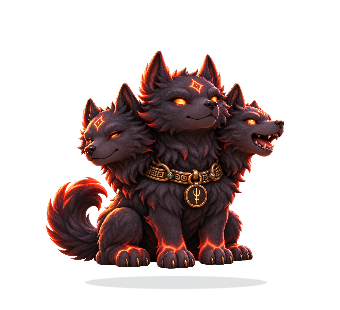
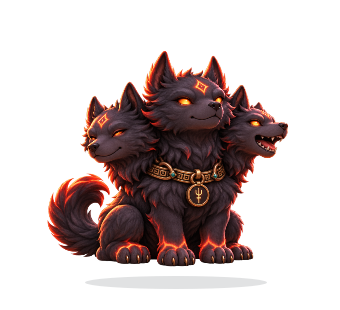
cerberus-state-specific-raster-poses

Changed region(s): [[0.1176, 0.1452, 0.8529, 0.871]]

diff --git a/cerberus/pet.py b/cerberus/pet.py
@@ -25,6 +25,7 @@ from .animation_pack import (
 BASE_WIDTH = 340
 BASE_HEIGHT = 310
 MAX_PACK_PIXELS = 32_000_000
+MAX_RENDER_DIMENSION = 768
 
 
 def mime_image_png(mime) -> bytes | None:
@@ -74,6 +75,12 @@ def _load_png(data: bytes, name: str) -> QPixmap:
         raise ValueError(f"Animation frame dimensions exceed {MAX_DIMENSION}px: {name}")
     if not pixmap.toImage().hasAlphaChannel():
         raise ValueError(f"Animation frame must support transparency: {name}")
+    if pixmap.width() > MAX_RENDER_DIMENSION or pixmap.height() > MAX_RENDER_DIMENSION:
+        pixmap = pixmap.scaled(
+            MAX_RENDER_DIMENSION, MAX_RENDER_DIMENSION,
+            Qt.AspectRatioMode.KeepAspectRatio,
+            Qt.TransformationMode.SmoothTransformation,
+        )
     return pixmap
 
 
@@ -389,9 +396,13 @@ class CerberusPet(QWidget):
                 tilt = 1.15 * math.sin(now * .85)
                 sy = 1.0 + .010 * math.sin(now * 2.2)
             elif state == "sleep":
-                sy = .83 + .004 * math.sin(now * .8)
-                sx = 1.065
-                dy = 9
+                if state in self._state_frames:
+                    sy = 1.0 + .006 * math.sin(now * .8)
+                    dy = 9
+                else:
+                    sy = .83 + .004 * math.sin(now * .8)
+                    sx = 1.065
+                    dy = 9
             elif state == "portal":
                 sx = sy = .40 + .60 * min(1, progress * 1.25)
                 dy = -12 * math.sin(progress * math.pi)
@@ -410,6 +421,9 @@ class CerberusPet(QWidget):
             elif state == "play":
                 dy = -13 * abs(math.sin(progress * math.pi * 2))
                 tilt = 8 * math.sin(progress * math.pi * 3)
+            elif state == "carry":
+                dy = -4 * abs(math.sin(progress * math.pi * 2))
+                tilt = 2 * math.sin(progress * math.pi * 2)
             elif state == "wake":
                 sy = .85 + .15 * progress
                 dy = 9 * (1 - progress)
@@ -419,7 +433,7 @@ class CerberusPet(QWidget):
                 sy = 1.01
         else:
             if state == "sleep":
-                sy = .9
+                sy = 1.0 if state in self._state_frames else .9
                 dy = 5
 
         painter.save()

diff --git a/scripts/render_preview.py b/scripts/render_preview.py
@@ -47,7 +47,7 @@ def snapshot(phase: str, fraction: float = 0.0) -> Image.Image:
     return image
 
 
-states = ["idle", "portal", "dash", "catch", "celebrate", "sleep"]
+states = ["idle", "portal", "dash", "catch", "carry", "celebrate", "play", "sleep", "wake", "guard", "alert"]
 tiles = []
 for phase in states:
     frame = snapshot(phase, 0.45 if phase in DURATIONS else 0)
@@ -55,15 +55,18 @@ for phase in states:
     tiles.append(frame)
 
 width, height = tiles[0].size
-sheet = Image.new("RGBA", (width * 3, height * 2), (0, 0, 0, 0))
+columns = 3
+rows = (len(tiles) + columns - 1) // columns
+sheet = Image.new("RGBA", (width * columns, height * rows), (0, 0, 0, 0))
 for i, tile in enumerate(tiles):
-    sheet.alpha_composite(tile, ((i % 3) * width, (i // 3) * height))
+    sheet.alpha_composite(tile, ((i % columns) * width, (i // columns) * height))
 sheet.save(OUT / "cerberus-state-sheet.png")
 
-# A short loop of authentic GUI frames: wake -> portal -> dash -> catch -> celebrate -> rest.
+# A short loop of authentic GUI frames: wake -> portal -> dash -> catch -> carry -> celebrate -> rest.
 frames = []
 for phase, count in [("wake", 5), ("portal", 6), ("dash", 8),
-                     ("catch", 7), ("celebrate", 8), ("idle", 10), ("sleep", 10)]:
+                     ("catch", 7), ("carry", 5), ("celebrate", 8),
+                     ("idle", 10), ("sleep", 10)]:
     for i in range(count):
         progress = i / max(1, count - 1)
         frames.append(snapshot(phase, progress))

diff --git a/cerberus/motion.py b/cerberus/motion.py
@@ -8,7 +8,8 @@ import time
 DURATIONS = {
     "portal": (0.55, "dash"),
     "dash": (0.55, "catch"),
-    "catch": (0.65, "celebrate"),
+    "catch": (0.50, "carry"),
+    "carry": (0.55, "celebrate"),
     "celebrate": (0.8, "idle"),
     "play": (1.15, "idle"),
     "wake": (0.7, "idle"),
@@ -18,7 +19,7 @@ DURATIONS = {
 
 @dataclass
 class MotionMachine:
-    """Timeline-based behavior: idle -> sleep, or portal -> dash -> catch -> celebrate."""
+    """Timeline-based behavior: idle -> sleep, or portal -> dash -> catch -> carry -> celebrate."""
 
     standby_after: float = 95.0
     phase: str = "idle"
@@ -40,7 +41,7 @@ class MotionMachine:
             self.last_active_at = stamp
 
     def capture(self, *, now: float | None = None) -> None:
-        self.transition("catch" if self.reduced_motion else "portal", now=now)
+        self.transition("carry" if self.reduced_motion else "portal", now=now)
 
     def touch(self, *, now: float | None = None) -> None:
         stamp = time.monotonic() if now is None else now

diff --git a/tests/test_motion.py b/tests/test_motion.py
@@ -12,11 +12,15 @@ class MotionTests(unittest.TestCase):
         self.assertEqual(m.phase, "dash")
         m.update(now=1.12)
         self.assertEqual(m.phase, "catch")
-        m.update(now=1.79)
+        m.update(now=1.62)
+        self.assertEqual(m.phase, "carry")
+        m.update(now=1.9)
+        self.assertEqual(m.phase, "carry")
+        m.update(now=2.16)
         self.assertEqual(m.phase, "celebrate")
-        m.update(now=2.50)
+        m.update(now=2.90)
         self.assertEqual(m.phase, "celebrate")
-        m.update(now=2.60)
+        m.update(now=3.00)
         self.assertEqual(m.phase, "idle")
 
     def test_idle_enters_standby_and_wakes(self):
@@ -36,7 +40,7 @@ class MotionTests(unittest.TestCase):
     def test_reduced_motion_skips_portal_and_dash(self):
         m = MotionMachine(reduced_motion=True)
         m.capture(now=10)
-        self.assertEqual(m.phase, "catch")
+        self.assertEqual(m.phase, "carry")
         m.update(now=10.7)
         self.assertEqual(m.phase, "celebrate")
 

diff --git a/tests/test_gui_smoke.py b/tests/test_gui_smoke.py
@@ -34,7 +34,10 @@ class GuiSmokeTests(unittest.TestCase):
         self.assertFalse(pet._sprite.isNull())
         self.assertEqual(pet._sprite_source, "raster-pack")
         self.assertTrue(pet._sprite.toImage().hasAlphaChannel())
+        self.assertLessEqual(max(pet._sprite.width(), pet._sprite.height()), 768)
+        self.assertTrue({"sleep", "dash", "carry", "guard"}.issubset(pet._state_frames))
         self.assertIs(pet._frame_for_state("idle", pet.motion.entered_at), pet._sprite)
+        self.assertIsNot(pet._frame_for_state("sleep", pet.motion.entered_at), pet._sprite)
         self.assertEqual(pet._sprite.toImage().pixelColor(0, 0).alpha(), 0)
         pet.set_pet_size(230)
         self.assertEqual(pet.width(), 230)

diff --git a/cerberus/animation_pack.py b/cerberus/animation_pack.py
@@ -13,7 +13,7 @@ MAX_FRAME_BYTES = 16 * 1024 * 1024
 MAX_DIMENSION = 4096
 ALLOWED_STATES = {
     "idle", "sleep", "wake", "portal", "dash", "catch",
-    "celebrate", "play", "alert", "guard",
+    "celebrate", "play", "alert", "guard", "carry",
 }
 
 

diff --git a/README.md b/README.md
@@ -27,7 +27,7 @@ Inspired by desktop pets such as Shimeji, Cerberus adds an information capture a
 
 ## Features in this version
 
-- **Three-headed animated desktop pet:** translucent, frameless, always-on-top Qt overlay; generated transparent raster character with idle/breathing, portal, dash, catch, celebrate, play and sleeping reactions. The original SVG remains a fallback.
+- **Three-headed animated desktop pet:** translucent, frameless, always-on-top Qt overlay; generated transparent raster poses for idle, running, catching/carrying, guard and sleep, with portal, wake, play and celebration motion. The original SVG remains a fallback.
 - **Feed it by dragging:** text, HTTP(S) links, local files and dropped image data are captured.
 - **Portable memory vault:** local SQLite database with FTS5 full-text indexing when available and an indexed fallback; files are **copied**, never moved from their source.
 - **Find what it swallowed:** desktop search window and command-line search/list/export/delete commands.
@@ -57,7 +57,7 @@ On macOS/Linux, activate with `source .venv/bin/activate`.
 | Action | What Cerberus does |
 | --- | --- |
 | Start `cerberus-desktop` | Appears as a transparent always-on-top character near the bottom-right of the primary monitor |
-| Drag text, URL, image or file onto the character | Captures locally, runs portal > dash > catch > celebrate |
+| Drag text, URL, image or file onto the character | Captures locally, runs portal > dash > catch > carry > celebrate |
 | Single-click | Bounces / reacts to being petted |
 | Double-click | Opens the searchable vault |
 | Left-drag | Repositions the companion on screen |
@@ -88,14 +88,14 @@ python -m cerberus export ./cerberus-export.json
 python -m unittest discover -s tests -v
 ```
 
-**Character assets:** [guardian-ember.png](cerberus/assets/guardian-ember.png) is the bundled alpha-transparent raster character. [guardian.svg](cerberus/assets/guardian.svg) remains the fallback. Qt preloads the default sprite and optional state frames, then applies the deterministic motion timeline and portal, paper-capture and particle effects. The pack manifest is [animation-pack.json](cerberus/assets/animation-pack.json); its format and bounds are documented in [docs/ANIMATION_PACK.md](docs/ANIMATION_PACK.md). Set `CERBERUS_ASSET_PACK` to a local manifest path to load a custom pack. The motion pipeline lives in [motion.py](cerberus/motion.py).
+**Character assets:** `guardian-ember.png`, `guardian-run.png`, `guardian-carry.png`, `guardian-sleep.png`, and `guardian-guard.png` are generated alpha-transparent raster poses. [guardian.svg](cerberus/assets/guardian.svg) remains the fallback. Qt preloads the default sprite and state images, then applies the deterministic motion timeline and portal, paper-capture and particle effects. The pack manifest is [animation-pack.json](cerberus/assets/animation-pack.json); its format and bounds are documented in [docs/ANIMATION_PACK.md](docs/ANIMATION_PACK.md). Set `CERBERUS_ASSET_PACK` to a local manifest path to load a custom pack. The motion pipeline lives in [motion.py](cerberus/motion.py).
 
 Run `python -m cerberus --help` for all commands. Override the data directory with `CERBERUS_HOME`.
 
 ## How it works
 
 1. Drop text, URLs, a file or an image **onto Cerberus** (or use the CLI).
-2. Cerberus plays a portal/catch reaction and writes the item to the local vault.
+2. Cerberus plays a portal/catch/carry reaction and writes the item to the local vault.
 3. Double-click the pet or use the tray menu to search and retrieve it.
 4. Single-click to pet Cerberus, drag the pet with the left mouse button to reposition it, or right-click for the tray actions. After roughly 95 seconds without interaction it settles into a sleeping standby pose; hover or interact to wake it.
 

diff --git a/docs/ANIMATION_PACK.md b/docs/ANIMATION_PACK.md
@@ -14,6 +14,6 @@ Cerberus can load local PNG frame sequences without changing the capture or vaul
 }
 ```
 
-All paths are relative to the manifest directory, use `/`, stay inside the pack, and name PNG files. The default frame is required. State names are `idle`, `sleep`, `wake`, `portal`, `dash`, `catch`, `celebrate`, `play`, `alert`, and `guard`. Each sequence accepts 1–64 frames, 0.5–30 FPS, and a boolean `loop`. A pack may use at most 128 unique frames total. PNG files must include an alpha channel, be no larger than 16 MiB, and stay within 4096×4096 pixels; all decoded frames together are limited to 32 million pixels. Frames within a sequence must use the same canvas dimensions. Invalid or missing optional packs fall back to the bundled SVG. Pack images are preloaded before the animation starts; no file I/O occurs in the paint/timer path.
+All paths are relative to the manifest directory, use `/`, stay inside the pack, and name PNG files. The default frame is required. State names are `idle`, `sleep`, `wake`, `portal`, `dash`, `catch`, `carry`, `celebrate`, `play`, `alert`, and `guard`. Each sequence accepts 1–64 frames, 0.5–30 FPS, and a boolean `loop`. A pack may use at most 128 unique frames total. PNG files must include an alpha channel, be no larger than 16 MiB, and stay within 4096×4096 pixels; all decoded frames together are limited to 32 million pixels. Frames within a sequence must use the same canvas dimensions. Invalid or missing optional packs fall back to the bundled SVG. Pack images are preloaded before the animation starts; no file I/O occurs in the paint/timer path. Large images are downscaled to a maximum 768 px render dimension after validation to limit steady-state memory use.
 
-The bundled `guardian-ember.png` is a single generated transparent pose. It is animated using the existing lightweight whole-character motion transforms. The pack loader supports authored per-state frame sequences, but a production sprite atlas with independently animated heads, paws and tail has not yet been authored. No claim of 3D rigging or physical Windows validation is made.
+The bundled manifest maps generated transparent poses to running, carrying, sleeping and guard states. These are single-frame state poses animated with lightweight whole-character motion transforms. The pack loader supports authored multi-frame sequences, but a production sprite atlas with independently animated heads, paws and tail has not yet been authored. No claim of 3D rigging or physical Windows validation is made.

diff --git a/docs/AGENT_HANDOFF.md b/docs/AGENT_HANDOFF.md
@@ -14,7 +14,7 @@ A small, expressive three-headed mythical dog lives as a transparent on-screen W
 - Local SQLite database with text and HTTP(S) URLs, copied file attachments and PNG image payloads; deduplication, capped file/text sizes, search via FTS5 where available, JSON metadata export, delete and CLI commands.
 - Transparent topmost frameless PySide6 pet, original vector fallback, generated transparent raster character and Qt image caching.
 - Drag/drop to pet, pet/reposition via mouse, double-click vault, right-click menu and tray controls.
-- MotionMachine transitions: idle -> sleep after roughly 95 seconds; portal -> dash -> catch -> celebrate -> idle after successful capture; play, wake, alert and guard. Reduced-motion behavior.
+- MotionMachine transitions: idle -> sleep after roughly 95 seconds; portal -> dash -> catch -> carry -> celebrate -> idle after successful capture; play, wake, alert and guard. Reduced-motion behavior.
 - Manual and optional clipboard capture (OFF by default), no cloud account or built-in telemetry.
 - Offscreen rendering script that produces state PNGs and an animated GIF.
 - Unit tests for core/settings/motion and a Windows Qt offscreen smoke test. Cross-platform core CI and Windows unsigned EXE build workflow exist.

diff --git a/CHANGELOG.md b/CHANGELOG.md
@@ -2,7 +2,7 @@
 
 ## Unreleased — generated raster character and animation packs
 
-- Added generated alpha-transparent PNG character art as the primary desktop sprite, retaining the original SVG as fallback.
+- Added generated alpha-transparent PNG character art as the primary desktop sprite, plus run, carry, sleep and guard poses; retained the original SVG as fallback.
 - Added a bounded local animation-pack manifest supporting per-state PNG frames on the deterministic motion timeline.
 - Preserved reduced-motion behavior and documented that authored state sequences and independent body-part animation remain future work.
 

diff --git a/docs/ROADMAP.md b/docs/ROADMAP.md
@@ -19,6 +19,7 @@ The completed boxes describe source-code features, not installer-quality guarant
 ## v0.2 — playful desktop pet
 
 - [x] Original transparent three-headed SVG fallback and generated transparent PNG primary sprite
+- [x] Generated transparent poses for run, carry, sleep and guard states
 - [x] Bounded, local PNG animation-pack manifest and state-frame playback support
 - [x] Procedural sprite transforms: idle breathing, portal, dash, catch, celebrate, play, wake, sleep
 - [x] Tray wake/play/sleep/guard controls, three sizes and reduced-motion mode
